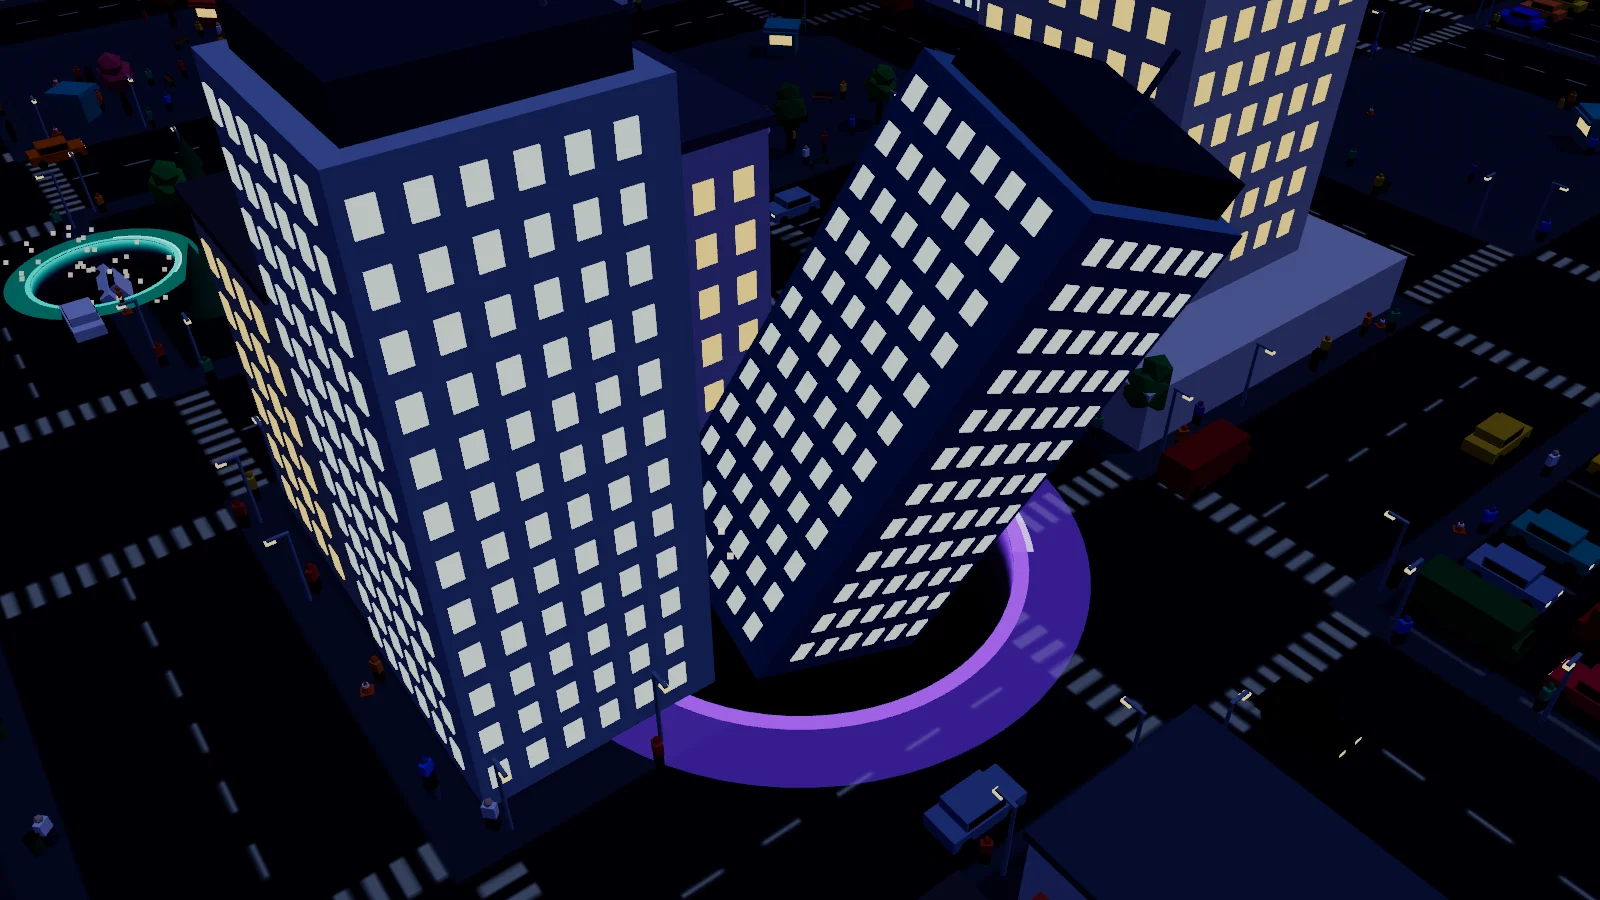
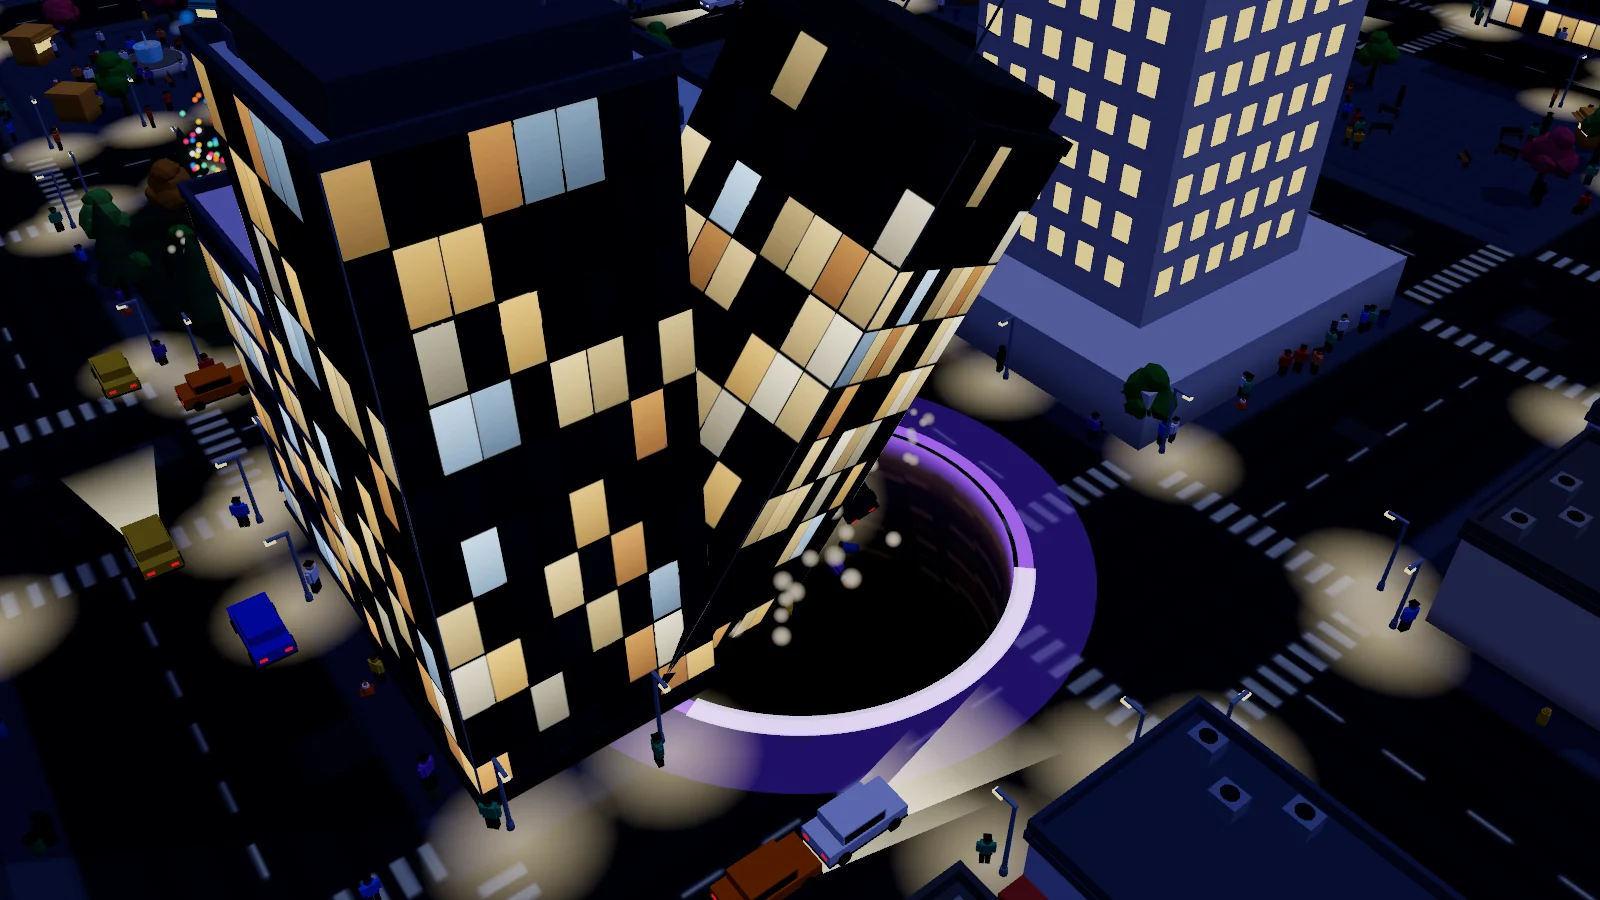
Voragine: copertina rigenerata, etichette lontane dal timer, toast più in basso
Claude-Session: https://claude.ai/code/session_016m2WYRmSGpEHYcJ2gk4eQy

diff --git a/src/voragine/game.js b/src/voragine/game.js
@@ -226,7 +226,7 @@ export class VoragineGame {
     const o = this.o, root = this.root;
     root.innerHTML = `<canvas class="vg-cv"></canvas><div class="vg-hud">
       <div class="vg-slow" id="vg-slow"><b id="vg-slow-t"></b></div><div class="vg-flash" id="vg-flash"></div>
-      <div class="vg-top"><div class="vg-timer" id="vg-timer">2:00</div><div class="vg-mode">${o.daily ? 'Sfida del giorno · ' : ''}${this.mode.name} · ${CITIES[o.city]?.name || ''}</div><div class="vg-pw" id="vg-pw"></div></div>
+      <div class="vg-top" id="vg-topbox"><div class="vg-timer" id="vg-timer">2:00</div><div class="vg-mode">${o.daily ? 'Sfida del giorno · ' : ''}${this.mode.name} · ${CITIES[o.city]?.name || ''}</div><div class="vg-pw" id="vg-pw"></div></div>
       <div class="vg-left" id="vg-left"><ol class="vg-board" id="vg-board"></ol><ul class="vg-miss" id="vg-miss"></ul></div>
       <div class="vg-score" id="vg-sc"><div class="vg-score-k">Punti</div><div class="vg-score-v" id="vg-score">0</div><div class="vg-eat" id="vg-eat"></div></div>
       <div class="vg-level"><div class="vg-level-row"><span id="vg-lvl">Livello 1</span><span id="vg-next"></span></div><div class="vg-bar"><i id="vg-bar"></i></div></div>
@@ -1025,7 +1025,7 @@ export class VoragineGame {
   updateLabels() {
     const w = this.root.clientWidth, hgt = this.root.clientHeight, m = 34;
     const root = this.root.getBoundingClientRect();
-    if (!this._rects || (this._rectT = (this._rectT || 0) - 1) <= 0) { this._rectT = 30; this._rects = ['vg-mini', 'vg-left', 'vg-sc'].map((id) => this.$(id)?.getBoundingClientRect()).filter((r) => r && r.width).map((r) => ({ l: r.left - root.left - 50, r: r.right - root.left + 50, t: r.top - root.top - 14, b: r.bottom - root.top + 14 })); }
+    if (!this._rects || (this._rectT = (this._rectT || 0) - 1) <= 0) { this._rectT = 30; this._rects = ['vg-mini', 'vg-left', 'vg-sc', 'vg-topbox'].map((id) => this.$(id)?.getBoundingClientRect()).filter((r) => r && r.width).map((r) => ({ l: r.left - root.left - 50, r: r.right - root.left + 50, t: r.top - root.top - 14, b: r.bottom - root.top + 14 })); }
     for (const h of this.h) {
       if (!h.alive || h.out) { h.lab.style.opacity = 0; continue; }
       tmpV.set(h.x, 0, h.z + h.r * 1.05).project(this.cam);

diff --git a/src/voragine/voragine.css b/src/voragine/voragine.css
@@ -72,7 +72,7 @@
 .vg-pop { position: absolute; left: 50%; top: 44%; transform: translateX(-50%); font-size: 26px; font-weight: 800; font-style: italic; color: #fff; animation: vgpop .9s ease-out forwards; }
 .vg-pop.big { font-size: 40px; color: #ffe066; }
 @keyframes vgpop { from { opacity: 0; transform: translate(-50%, 10px) scale(.7); } 15% { opacity: 1; transform: translate(-50%, 0) scale(1.1); } to { opacity: 0; transform: translate(-50%, -60px) scale(1); } }
-.vg-toast { position: absolute; top: 96px; left: 50%; transform: translate(-50%, -10px); padding: 8px 18px; background: rgba(139,92,255,.92); font-size: 20px; font-weight: 800; font-style: italic; text-transform: uppercase; letter-spacing: .03em; opacity: 0; transition: opacity .25s, transform .25s; white-space: nowrap; max-width: 92vw; overflow: hidden; text-overflow: ellipsis; }
+.vg-toast { position: absolute; top: 132px; left: 50%; transform: translate(-50%, -10px); padding: 8px 18px; background: rgba(139,92,255,.92); font-size: 20px; font-weight: 800; font-style: italic; text-transform: uppercase; letter-spacing: .03em; opacity: 0; transition: opacity .25s, transform .25s; white-space: nowrap; max-width: 92vw; overflow: hidden; text-overflow: ellipsis; }
 .vg-toast.bad { background: rgba(220,40,60,.92); }
 .vg-toast.on { opacity: 1; transform: translate(-50%, 0); }
 .vg-count { position: absolute; top: 40%; left: 50%; transform: translate(-50%, -50%); font-size: 120px; font-weight: 800; font-style: italic; }
